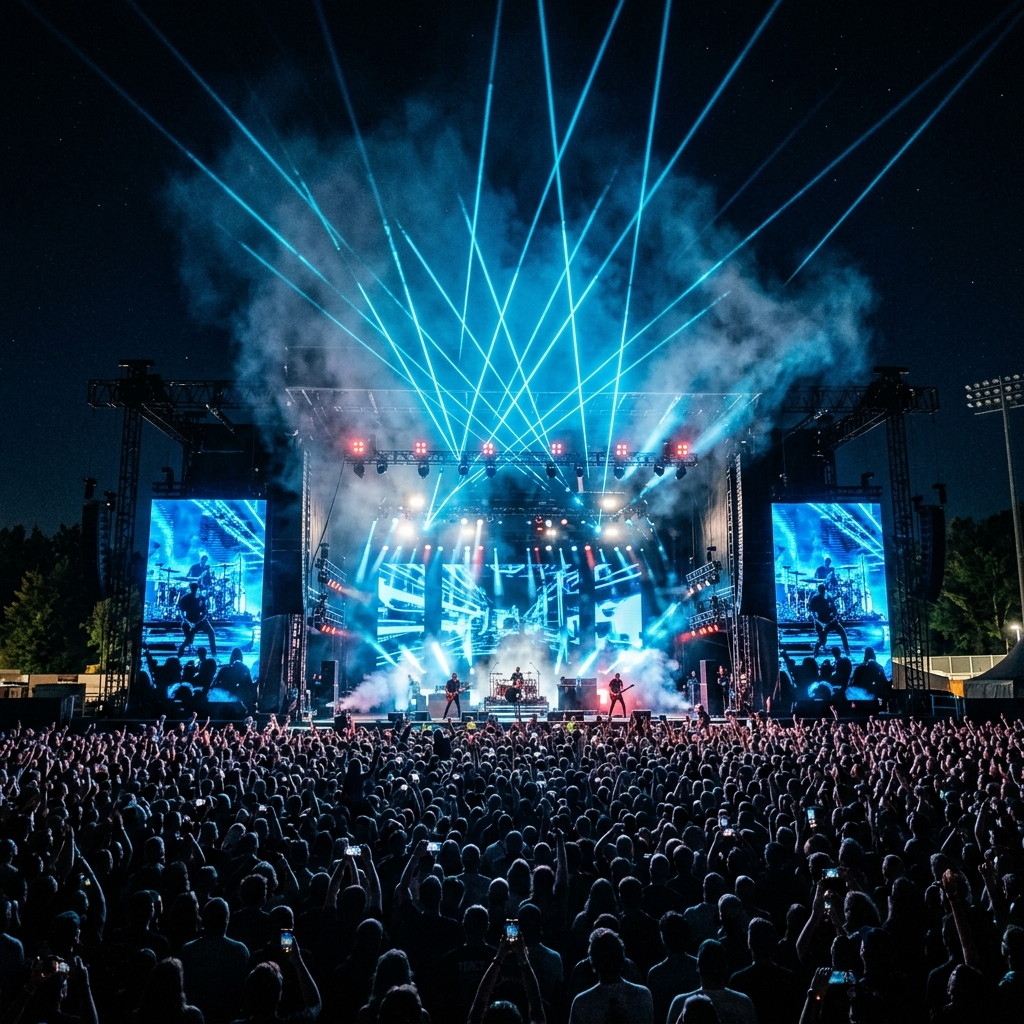
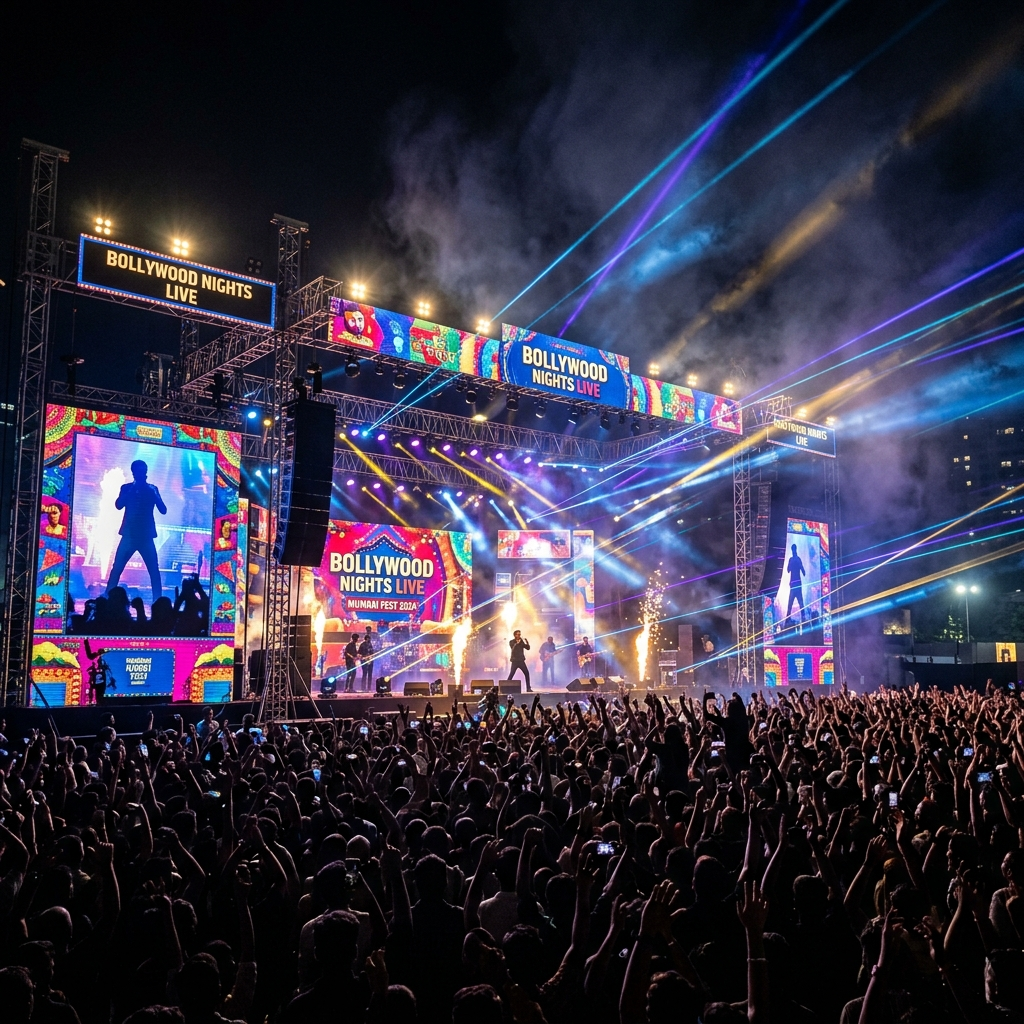
feat: add Contact, Portfolio, and Equipment components with supporting asset images

diff --git a/src/components/Equipment.tsx b/src/components/Equipment.tsx
@@ -1,13 +1,14 @@
 "use client";
 
 import { motion } from "framer-motion";
+import Image from "next/image";
 import { Speaker, Zap, Layers, Cpu } from "lucide-react";
 
 const equipment = [
-  { name: "L-ACOUSTICS K2", type: "LINE ARRAY SYSTEMS", icon: Speaker },
-  { name: "GRANDMA3 FULL", type: "LIGHTING CONSOLE", icon: Cpu },
-  { name: "ROE VISUAL RUBY", type: "LED PANELS", icon: Layers },
-  { name: "CLAY PAKY SHARPY", type: "MOVING HEADS", icon: Zap },
+  { name: "L-ACOUSTICS K2", type: "LINE ARRAY SYSTEMS", icon: Speaker, image: "/l_acoustics_k2.png" },
+  { name: "GRANDMA3 FULL", type: "LIGHTING CONSOLE", icon: Cpu, image: "/grandma3.png" },
+  { name: "ROE VISUAL RUBY", type: "LED PANELS", icon: Layers, image: "/roe_ruby.png" },
+  { name: "CLAY PAKY SHARPY", type: "MOVING HEADS", icon: Zap, image: "/clay_paky.png" },
 ];
 
 export default function Equipment() {
@@ -36,13 +37,31 @@ export default function Equipment() {
               initial={{ opacity: 0, scale: 0.95 }}
               whileInView={{ opacity: 1, scale: 1 }}
               transition={{ delay: i * 0.1 }}
-              className="p-8 md:p-10 glass-card group"
+              className="glass-card group overflow-hidden flex flex-col justify-between"
             >
-              <div className="w-14 h-14 rounded-full bg-white/5 flex items-center justify-center mx-auto mb-8 group-hover:bg-accent-gold group-hover:scale-110 transition-all duration-500">
-                <item.icon className="text-white/40 group-hover:text-black transition-colors" size={28} />
+              {/* Image Container */}
+              <div className="relative aspect-[4/3] w-full overflow-hidden bg-black/40 border-b border-white/5">
+                <Image
+                  src={item.image}
+                  alt={item.name}
+                  fill
+                  className="object-cover group-hover:scale-110 transition-transform duration-700 opacity-80 group-hover:opacity-100"
+                />
+                {/* Floating Icon */}
+                <div className="absolute top-4 right-4 w-10 h-10 rounded-full bg-black/60 backdrop-blur-md flex items-center justify-center border border-white/10 group-hover:border-accent-gold group-hover:bg-accent-gold/10 transition-all duration-500">
+                  <item.icon className="text-white group-hover:text-accent-gold transition-colors" size={18} />
+                </div>
               </div>
-              <h4 className="font-bebas text-2xl text-white mb-2 group-hover:text-accent-gold transition-colors tracking-wide">{item.name}</h4>
-              <p className="font-poppins text-white/20 text-[9px] uppercase tracking-[0.2em] font-bold">{item.type}</p>
+
+              {/* Text Container */}
+              <div className="p-6 text-center">
+                <h4 className="font-bebas text-xl md:text-2xl text-white mb-2 group-hover:text-accent-gold transition-colors tracking-wide">
+                  {item.name}
+                </h4>
+                <p className="font-poppins text-white/20 text-[9px] uppercase tracking-[0.2em] font-bold">
+                  {item.type}
+                </p>
+              </div>
             </motion.div>
           ))}
         </div>

diff --git a/src/components/Contact.tsx b/src/components/Contact.tsx
@@ -1,7 +1,7 @@
 "use client";
 
 import { motion } from "framer-motion";
-import { MessageCircle, Mail, MapPin, ArrowRight } from "lucide-react";
+import { MessageCircle, Mail, MapPin, ArrowRight, Phone } from "lucide-react";
 import Magnetic from "./Magnetic";
 
 export default function Contact() {
@@ -39,9 +39,11 @@ export default function Contact() {
               transition={{ duration: 0.8 }}
               className="glass-card p-12 flex flex-col justify-between border-white/5 group hover:border-accent-blue/30 transition-all duration-700"
             >
-              <div className="space-y-12">
+              <div className="space-y-8">
                 {[
-                  { icon: Mail, label: "ENQUIRIES", value: "HELLO@JAYBABA.PRO", color: "text-accent-blue" },
+                  { icon: Phone, label: "PRIMARY CALL", value: "+91 90093 94145", href: "tel:+919009394145", color: "text-accent-gold" },
+                  { icon: Phone, label: "SUPPORT CALL", value: "+91 96851 41051", href: "tel:+919685141051", color: "text-accent-gold" },
+                  { icon: Mail, label: "ENQUIRIES", value: "HELLO@JAYBABA.PRO", href: "mailto:HELLO@JAYBABA.PRO", color: "text-accent-blue" },
                   { icon: MapPin, label: "HQ LOCATION", value: "MUMBAI, INDIA", color: "text-accent-purple" },
                 ].map((item, i) => (
                   <div key={i} className="flex items-start gap-6 group/item">
@@ -52,7 +54,13 @@ export default function Contact() {
                     </Magnetic>
                     <div>
                       <p className="font-poppins text-[9px] text-white/20 uppercase tracking-[0.4em] font-bold mb-2">{item.label}</p>
-                      <p className="font-bebas text-3xl text-white tracking-wide">{item.value}</p>
+                      {item.href ? (
+                        <a href={item.href} className="font-bebas text-3xl text-white tracking-wide hover:text-accent-blue transition-colors block">
+                          {item.value}
+                        </a>
+                      ) : (
+                        <p className="font-bebas text-3xl text-white tracking-wide">{item.value}</p>
+                      )}
                     </div>
                   </div>
                 ))}
@@ -86,7 +94,7 @@ export default function Contact() {
 
               <Magnetic>
                 <motion.a 
-                  href="https://wa.me/919876543210" 
+                  href="https://wa.me/919009394145" 
                   target="_blank"
                   className="group relative flex items-center justify-between px-8 py-5 bg-black border border-[#25D366]/20 rounded-2xl transition-all duration-500 hover:border-[#25D366] hover:shadow-[0_0_30px_rgba(37,211,102,0.2)] overflow-hidden keep-dark"
                 >

diff --git a/src/components/Portfolio.tsx b/src/components/Portfolio.tsx
@@ -21,7 +21,7 @@ const projects = [
     title: "TECH SUMMIT 2024",
     category: "CORPORATE EVENT",
     image: "/corporate.png",
-    location: "BENGALURU",
+    location: "INDORE",
   },
 ];
 
